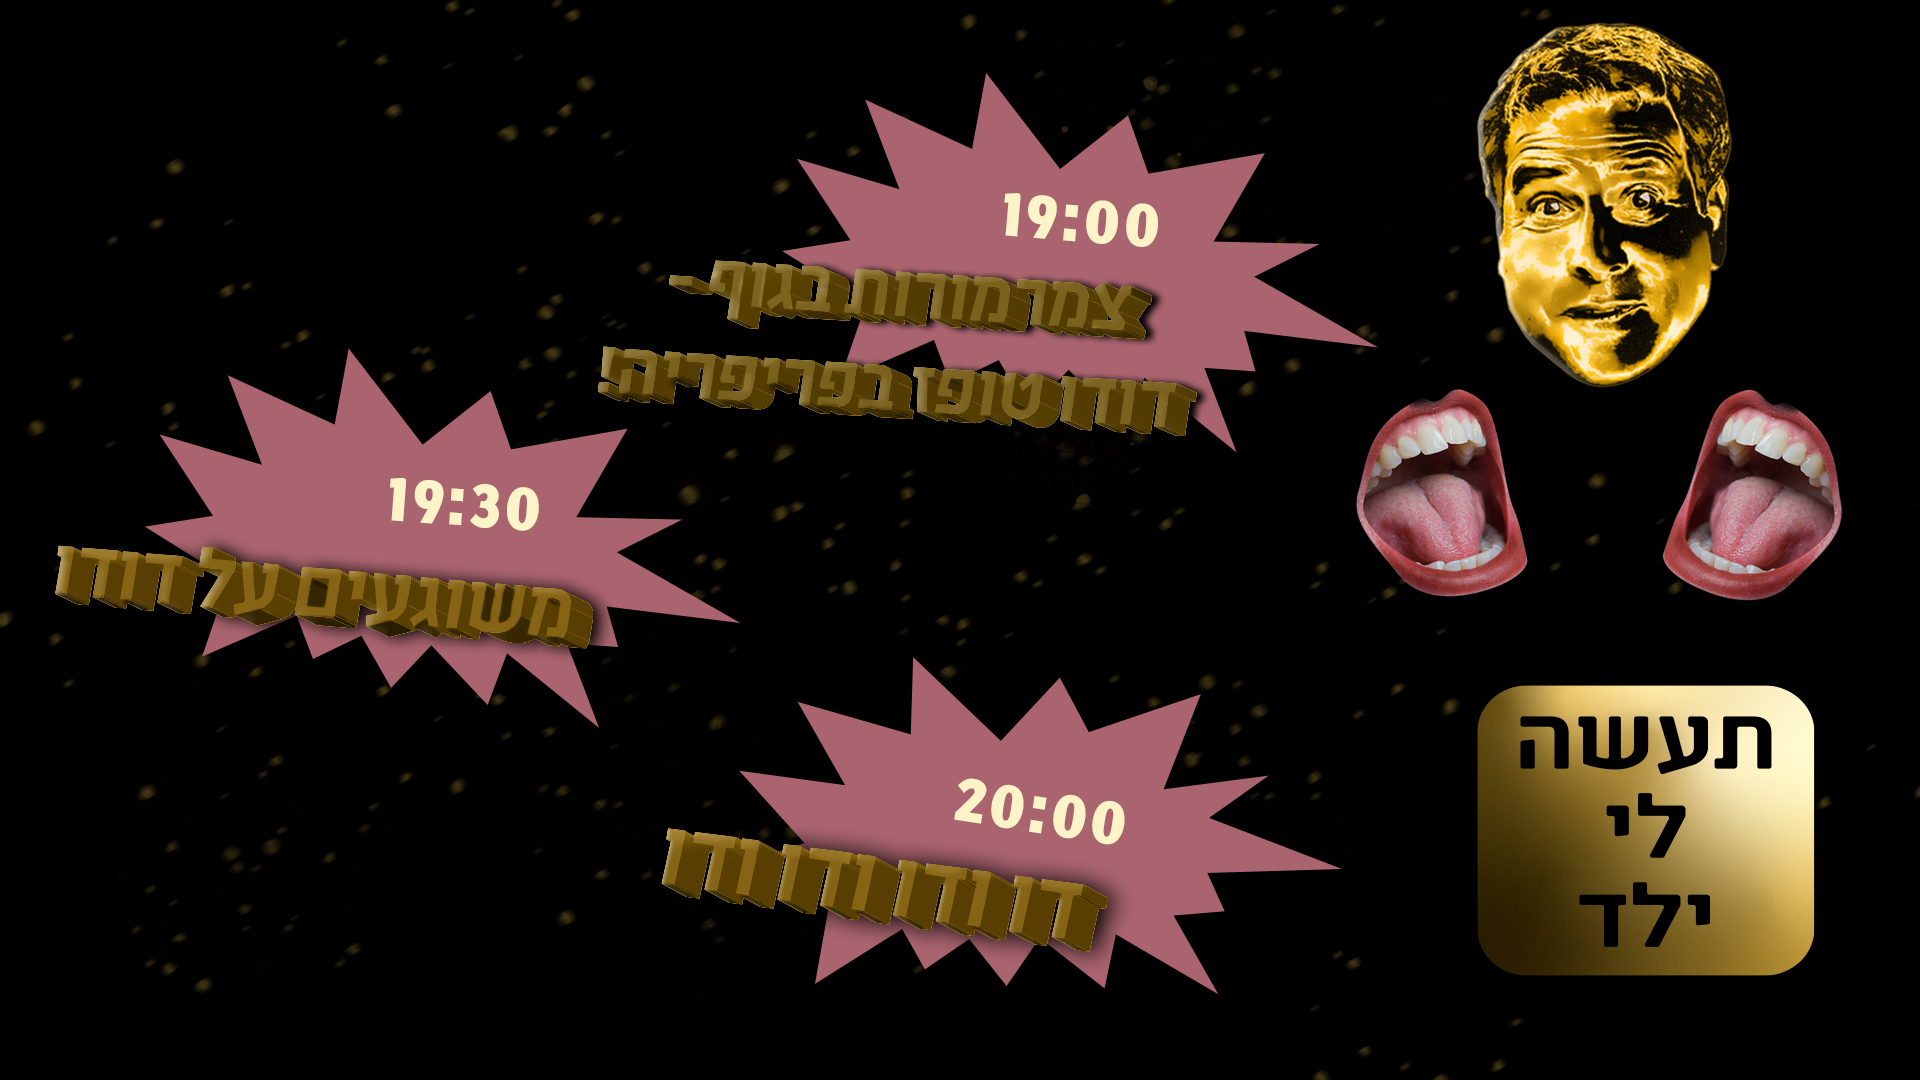
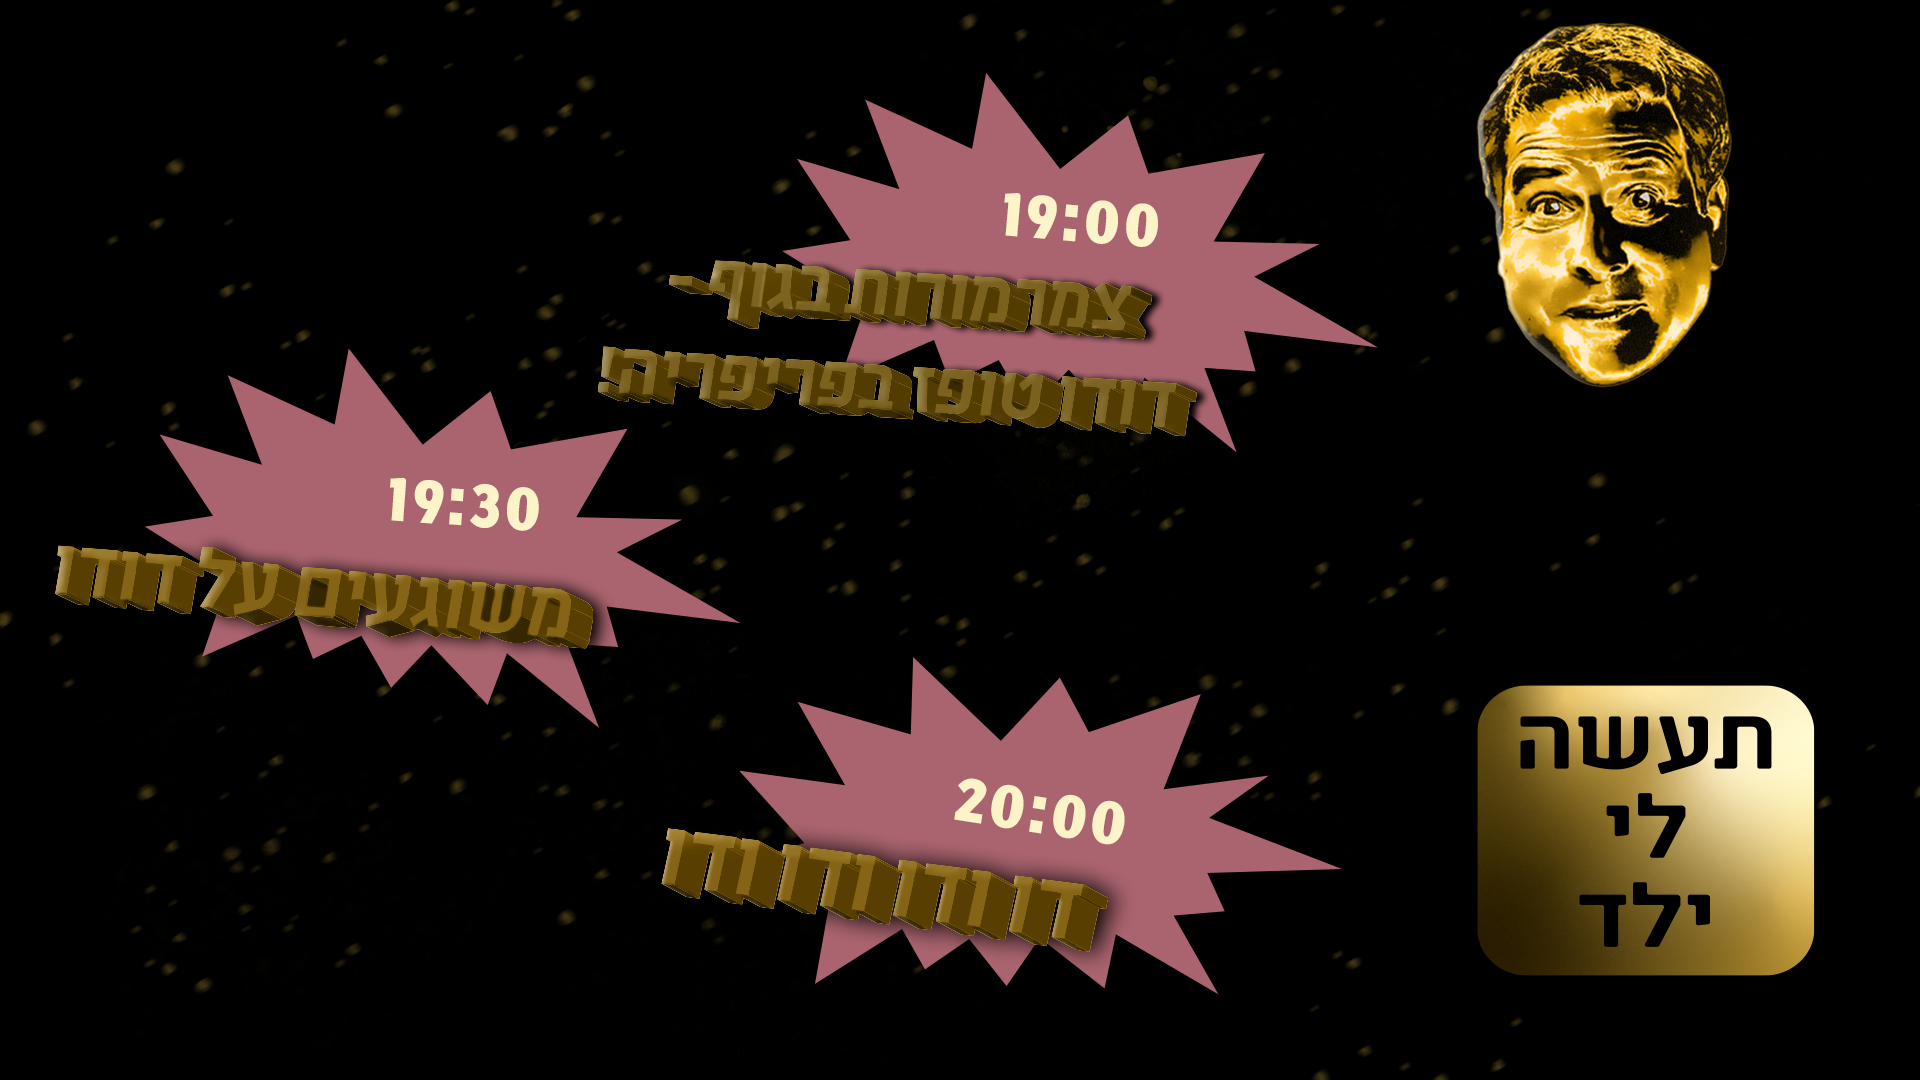
changing

Changed region(s): [[0.6875, 0.3667, 0.8125, 0.55], [0.8438, 0.3667, 0.9688, 0.55]]

diff --git a/index.html b/index.html
@@ -5,32 +5,74 @@
   <script src="https://ajax.googleapis.com/ajax/libs/jquery/3.5.1/jquery.min.js"></script>
 </head>
 <body>
+  <div class="error-noise over-effects"></div>
+  <div class="error-effect over-effects"></div>
+  <div class="old-tv-content over-effects"></div>
 
-  <div class="error-noise">
-  <div class="error-effect">   </div>
-     <div class="old-tv-content">
+  <audio id="static" src="Static.mp3"></audio>
           <div id="chNum" class="green-text">0</div>
-       <div id="remote">
+       <div id="remote" style="display:none;">
        <p id="ch-up" class="green-text">+</p>
        <p class="green-text">C H</p>
        <p id="ch-down" class="green-text">-</p>
+
        </div>
-     </div>
 
 
+<div id="noise" class="page"></div>
 <div id="c01" class="page">
-  <img src="assets/ch01.png"/>
+  <div class="ch-content">
+    <img class="gify" src="assets/screaming-mouth-static.png" loc="assets/screaming-mouth" style="top:20rem; right:5rem; max-width: 35%;"/>
 
+  </div>
+<img class="ch-bg" src="assets/ch01.png"/>
 </div>
-<div id="c02" class="page"><img src="assets/ch02.png"/></div>
-<div id="c03" class="page"><img src="assets/ch03.png"/></div>
-<div id="c04" class="page"><img src="assets/ch04.png"/></div>
+<div id="c02" class="page">
+<div class="ch-content">
+  <img class="gify" src="assets/hands-static.png" loc="assets/hands" style="top: 6rem; left:5rem; max-width: 55%;"/>
+</div>
+<img class="ch-bg" src="assets/ch02.png"/>
+</div>
+<div id="c03" class="page">
+  <video autoplay id="31" vid="yes">
+    <source src="https://drive.google.com/uc?export=download&id=1edU1jd5QK5hjyI3xv0bl-mJwW9Rer6TU" type='video/mp4'>
+  </video>
+  <video id="32" style="display:none;" vid="yes">
+    <source src="https://drive.google.com/uc?export=download&id=1toWf-jV9tBPi0g_dKX_h2JKceNdLNgWE" type='video/mp4'>
+  </video>
+  <div id="34" class="ch-content" style="display:none;" vid="end">
+    <img class="ch-bg" src="assets/ch03.png"/>
+  </div>
+  <video id="33" style="display:none;" vid="yes">
+    <source src="https://drive.google.com/uc?export=download&id=1Dc2CaVbMpBpRUcepiRQi4Kg9JbZ33ZRL" type='video/mp4'>
+  </video>
+</div>
+<div id="c04" class="page"><img class="ch-bg" src="assets/ch04.png"/></div>
 <div id="c05" class="page">
-  <video loop autoplay>
-    <source src="https://drive.google.com/uc?export=download&id=1aG5w9bbwWex0KdYIZyyEteKzVWeG-AxT" type='video/mp4'>
-</video></div>
-<div id="c00" class="page"></div>
+
+  <video autoplay id="51" vid="yes">
+    <source src="https://drive.google.com/uc?export=download&id=1a-HwGBEIY8wLHSvtVH56M3dcmVwgb8t3" type='video/mp4'>
+</video>
+<video id="52" style="display:none;" vid="yes">
+  <source src="https://drive.google.com/uc?export=download&id=1y6Bg71lpajgCrcLHmDB-YL_XOLAsa5dc" type='video/mp4'>
+</video>
+<div id="53" class="ch-content"  style="display:none;" vid="no">
+  <img class="gify" src="assets/hands-static.png" loc="assets/hands" style="top: 6rem; left:5rem; max-width: 55%;"/>
+  <img class="ch-bg" src="assets/ch02.png"/>
 </div>
+<video id="54" style="display:none;" vid="yes">
+  <source src="https://drive.google.com/uc?export=download&id=12O-qjjxr_Jf4FdU66_iAVGHJRNTloujv" type='video/mp4'>
+</video>
+<video id="55" style="display:none;" vid="yes">
+  <source src="https://drive.google.com/uc?export=download&id=1toWf-jV9tBPi0g_dKX_h2JKceNdLNgWE" type='video/mp4'>
+</video>
+<div id="56" class="ch-content"  style="display:none;" vid="end">
+  <img class="gify" src="assets/hands-static.png" loc="assets/hands" style="top: 6rem; left:5rem; max-width: 55%;"/>
+  <img class="ch-bg" src="assets/ch02.png"/>
+</div>
+</div>
+<div id="c00" class="page"><h1 class="green-text" id="on-button">ON</h1></div>
+
 
 <script>
 var $video  = $('video'),
@@ -54,45 +96,120 @@ $(window).resize(function(){
   var i=0;
   var lowCh = 1;
   var topCh = 5;
-    $(document).ready(function(){
-      for (g=1; g<=topCh; g++){
-        $('#c0'+ g).hide()};
+      $(document).ready(function(){
+
+        $('#c03> video').on('ended',function(){
+        var num = $(this).attr('id');
+        $(this).get(0).pause();
+        $(this).hide();
+        num++;
+        if ($('#' + num).attr('vid') == 'yes'){
+        $('video#'+ num).get(0).play();
+        $('video#'+ num).show();
+        console.log(num);
+      }else if ($('#' + num).attr('vid') == 'no'){
+        console.log(num);
+        $('#'+num).show();
+          setTimeout(() => {
+             $('#'+num).hide();
+             num++;
+              $('video#'+ num).show();
+             $('video#'+ num).get(0).play();
+             console.log(num);
+             }, 1000);
+    } else if ($('#' + num).attr('vid') == 'end'){
+      console.log(num);
+      $('#'+num).show();
+        };
+      });
+
+      $('#c05> video').on('ended',function(){
+        var num = $(this).attr('id');
+        $(this).get(0).pause();
+        $(this).hide();
+        num++;
+        if ($('#' + num).attr('vid') == 'yes'){
+        $('video#'+ num).get(0).play();
+        $('video#'+ num).show();
+        console.log(num);
+      }else if ($('#' + num).attr('vid') == 'no'){
+        console.log(num);
+        $('#'+num).show();
+          setTimeout(() => {
+             $('#'+num).hide();
+             num++;
+              $('video#'+ num).show();
+             $('video#'+ num).get(0).play();
+             console.log(num);
+             }, 1000);
+    } else if ($('#' + num).attr('vid') == 'end'){
+      console.log(num);
+      $('#'+num).show();
+        };
+      });
+
+
+
+
+
+  for (g=1; g<=topCh; g++){
+  $('#c0'+ g).hide()};
 
 $('#c00').show();
+/////first click
+$("#on-button").click(function() {
+  $('#remote').show();
+   $('video#51').get(0).play();
+   $('video#31').get(0).play();
+   $('.page > video').prop('muted', true);
+   $('#ch-down').trigger('click');
+});
+
 $("#ch-up").click(function() {
-  var hideCh = i;
-  $("video").trigger('play');
+  $('#noise').show();
+  setTimeout(() => {  $('#noise').hide();  }, 500);
+    var hideCh = i;
+  $('#static').get(0).play();
   if(i>=lowCh && i<topCh){i++}else{i=1};
   $("#chNum").html(i);
     var showCh = i;
   $('#c0'+ hideCh).hide();
   $('#c0'+ showCh).show();
-  if (i == 5){
-    $("video").prop('muted', false);
-  }
-  else {
-      $("video").prop('muted', true);
-  }
+  $('#c0'+hideCh+'> video').prop('muted', true);
+  $('#c0'+showCh+'> video').prop('muted', false);
+
   console.log(i);
 });
 
 $("#ch-down").click(function() {
+  $('#noise').show();
+  setTimeout(() => {  $('#noise').hide();  }, 500);
   var hideCh = i;
-  $("video").trigger('play');
+  $('#static').get(0).play();
   if(i>lowCh && i<=topCh){i--}else{i=topCh};
   $("#chNum").html('CH'&&i);
     var showCh = i;
   $('#c0'+ hideCh).hide();
   $('#c0'+ showCh).show();
-  if (i == 5){
-    $("video").prop('muted', false);
-  }
-  else {
-      $("video").prop('muted', true);
-  }
+  $('#c0'+hideCh+'> video').prop('muted', true);
+  $('#c0'+showCh+'> video').prop('muted', false);
+
   console.log(i);
 });
 
+
+  });
+
+
+
+
+
+
+
+$(".gify").hover(function(){
+  $(this).attr('src' , $(this).attr('loc') + '-active.gif');
+     }, function(){
+  $(this).attr('src' , $(this).attr('loc') + '-static.png');
   });
 </script>
 

diff --git a/style.css b/style.css
@@ -7,7 +7,7 @@ html, body{
    -khtml-user-select: none; /* Konqueror HTML */
      -moz-user-select: none; /* Old versions of Firefox */
       -ms-user-select: none; /* Internet Explorer/Edge */
-          user-select: none; 
+          user-select: none;
 }
 
 @font-face {
@@ -21,12 +21,7 @@ html, body{
     z-index: 4;
     }
 
-.page-content{
-  /* position: absolute; */
-  top: 10%;
-  left: 50%;
-  /* z-index: 0 */
-}
+
 
 .green-text{
   background: -webkit-radial-gradient(#7cef9a 5%, #378445 285%);
@@ -64,31 +59,81 @@ html, body{
  #ch-down{
    cursor: pointer;
  }
+
+ #noise{
+      /* background-color:  red; */
+   width: 100%;
+   height: 100%;
+   display: none;
+   z-index: 10;
+   position: absolute;
+   background-size: 100%;
+   background-image: url(download2.png);
+   background-blend-mode: normal;
+opacity: 1;
+   -moz-animation: noise 200ms infinite linear;
+   -o-animation: noise 200ms infinite linear;
+   -webkit-animation: noise 200ms infinite linear;
+   animation: noise 200ms infinite linear;
+
+ }
+
+ .ch-content{
+   position: absolute;
+   height: 100%;
+   width: 100%;
+   z-index: 0;
+        }
+
+.ch-bg{
+position: absolute;
+width: 100%;
+right: 0;
+top: 0;
+min-width: 100%;
+min-height: 100%;
+object-fit: cover;
+z-index: -5;
+}
+
+.gify{
+position: absolute;
+width: 100%;
+height: auto;
+}
+
+
+
 #c00{
 background-color:  black;
 }
 
 #c01{
-background-color:  red;
+/* background-color:  red; */
 }
 
 #c02{
-background-color:  blue;
+/* background-color:  blue; */
 }
 
 #c03{
-background-color:  green;
+/* background-color:  green; */
 }
 
 #c04{
-background-color:  pink;
+/* background-color:  pink; */
 }
 
 
 h1{
   font-size: 15vh;
-  font-family: sans-serif;
-  color: #555;
+  position: absolute;
+  color: #eee;
+top: 25%;
+right: 45%;
+width: auto;
+text-align: center;
+z-index: 4;
 }
 
 video{
@@ -101,22 +146,18 @@ video{
   object-fit: cover;
 }
 
-img{
-    right: 0;
-  bottom: 0;
-  min-width: 100%;
-  min-height: 100%;
-  object-fit: cover;
+.over-effects{
+  pointer-events: none;
+  z-index: 3;
 }
-
 .error-noise {
-    position: relative;
+  pointer-events: none;
+      position: absolute;
     width: 100%;
     height:100%;
     overflow: hidden;
     /* border-radius: 5% / 50%; */
-    z-index: 3;
-}
+    }
 
 .error-effect {
     position: absolute;
@@ -158,6 +199,7 @@ img{
     }
 
 .old-tv-content {
+pointer-events: none;
     position: absolute;
     width: 100%;
     height: 100%;
